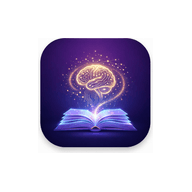
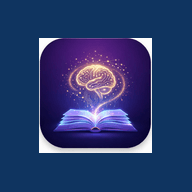
Fix icone PWA: background blu invece di trasparente, rimosso sfondo blu da Nuovo Libro, fix header mobile sticky

diff --git a/frontend/scripts/generate-icons.js b/frontend/scripts/generate-icons.js
@@ -42,35 +42,41 @@ async function generateIcons() {
   // Prima carica l'immagine e rimuovi lo spazio bianco
   const image = sharp(originalIcon);
   
-  // Trim dello spazio bianco (rimuove padding bianco/trasparente)
-  const trimmed = await image
-    .trim({ threshold: 10 }) // Rimuove bordi con differenza < 10
+  // Trim più aggressivo dello spazio bianco
+  const processed = await image
+    .ensureAlpha() // Assicura canale alpha
+    .trim({ 
+      threshold: 20, // Soglia più alta per rimuovere più bianco
+      background: { r: 255, g: 255, b: 255, alpha: 1 }
+    })
     .toBuffer();
+  
+  // Colore di background blu scuro (coerente con l'header)
+  const bgColor = { r: 15, g: 52, b: 96, alpha: 1 }; // #0f3460
   
   for (const { size, name, maskable } of sizes) {
     const outputPath = join(__dirname, `../public/${name}`);
     
     if (maskable) {
       // Per icone maskable: crea un canvas con safe zone del 20%
-      // Il contenuto dell'icona sarà ridotto all'80% e centrato
-      const safeZone = 0.2; // 20% padding
+      const safeZone = 0.2;
       const contentSize = Math.floor(size * (1 - safeZone * 2));
       
-      // Crea un canvas trasparente della dimensione finale
+      // Crea un canvas con background blu scuro
       const canvas = sharp({
         create: {
           width: size,
           height: size,
           channels: 4,
-          background: { r: 0, g: 0, b: 0, alpha: 0 }
+          background: bgColor
         }
       });
       
       // Ridimensiona l'icona al 80% e posiziona al centro
-      const resized = await sharp(trimmed)
+      const resized = await sharp(processed)
         .resize(contentSize, contentSize, {
           fit: 'contain',
-          background: { r: 0, g: 0, b: 0, alpha: 0 }
+          background: bgColor
         })
         .toBuffer();
       
@@ -84,12 +90,13 @@ async function generateIcons() {
         .png({ quality: 90 })
         .toFile(outputPath);
     } else {
-      // Per icone standard: usa tutto lo spazio disponibile
-      await sharp(trimmed)
+      // Per icone standard: usa background blu scuro
+      await sharp(processed)
         .resize(size, size, {
-          fit: 'cover',
-          position: 'center'
+          fit: 'contain',
+          background: bgColor
         })
+        .flatten({ background: bgColor }) // Rimuove trasparenza e riempie con blu
         .png({ quality: 90 })
         .toFile(outputPath);
     }

diff --git a/frontend/src/components/DynamicForm.css b/frontend/src/components/DynamicForm.css
@@ -42,18 +42,7 @@
 .dynamic-form-layout .dynamic-form-main-content {
   flex: 1;
   min-width: 0; /* Permette al contenuto di restringersi */
-  /* Background blu continuo dall'header */
-  background: linear-gradient(180deg, 
-    #0f3460 0%, 
-    #0f3460 8%, 
-    rgba(15, 52, 96, 0.98) 12%,
-    rgba(15, 52, 96, 0.95) 18%,
-    rgba(15, 52, 96, 0.90) 25%,
-    rgba(15, 52, 96, 0.80) 35%,
-    rgba(15, 52, 96, 0.60) 50%,
-    rgba(15, 52, 96, 0.30) 70%,
-    transparent 100%
-  );
+  background-color: transparent; /* Assicura che sia visibile */
   width: 100%; /* Assicura che occupi tutto lo spazio disponibile */
   overflow-y: auto; /* Abilita scroll verticale quando necessario */
   overflow-x: hidden; /* Previene scroll orizzontale */
@@ -92,16 +81,14 @@
 .dynamic-form-container h1 {
   margin-bottom: 0.5rem;
   font-family: 'Playfair Display', Georgia, serif;
-  color: white; /* Bianco per leggibilità sul blu */
+  color: var(--text-primary);
   font-size: 2rem;
-  text-shadow: 0 2px 10px rgba(0, 0, 0, 0.3);
 }
 
 .subtitle {
-  color: rgba(255, 255, 255, 0.95); /* Bianco semi-trasparente per leggibilità sul blu */
+  color: var(--text-secondary);
   margin-bottom: 2.5rem;
   font-size: 1.05rem;
-  text-shadow: 0 1px 5px rgba(0, 0, 0, 0.2);
 }
 
 /* Form Layout */

diff --git a/frontend/src/components/Navigation.css b/frontend/src/components/Navigation.css
@@ -6,7 +6,8 @@
   display: flex;
   justify-content: space-between;
   align-items: center;
-  padding: calc(1rem + var(--safe-area-inset-top)) 2.5rem 1rem 2.5rem;
+  padding: 1rem 2.5rem;
+  padding-top: calc(1rem + var(--safe-area-inset-top));
   /* Gradiente blu continuo con l'area del titolo */
   background: linear-gradient(135deg, #0f3460 0%, #16213e 50%, #0f3460 100%);
   backdrop-filter: var(--glass-blur-light);
@@ -17,10 +18,13 @@
     0 1px 0 rgba(255, 255, 255, 0.05) inset;
   position: sticky;
   top: 0;
+  left: 0;
+  right: 0;
   z-index: 100;
   gap: 2rem;
   min-width: 0;
   width: 100%;
+  margin: 0;
 }
 
 /* Brand */
@@ -161,7 +165,8 @@
     justify-content: space-between;
     align-items: center;
     gap: 1rem;
-    position: relative;
+    position: sticky;
+    top: 0;
   }
 
   .nav-brand {
